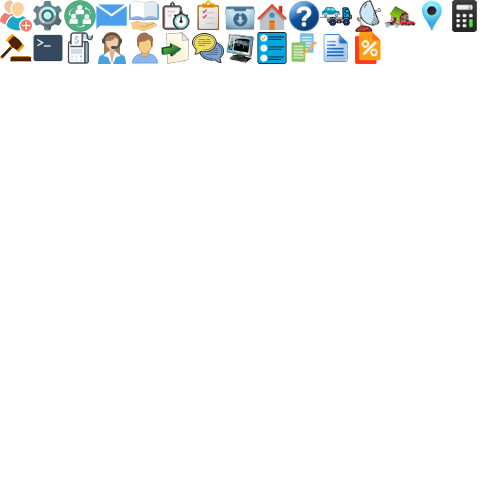
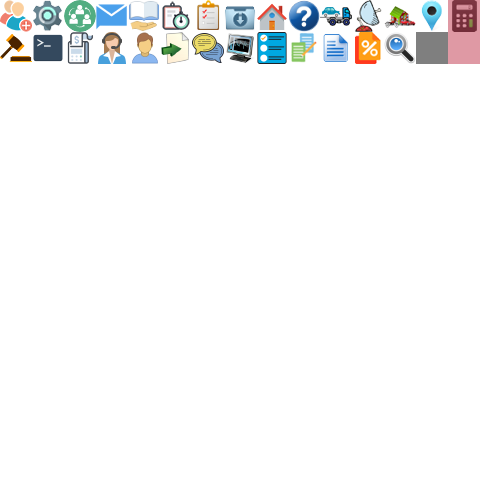
Dev

Changed region(s): [[0.75, 0.0, 0.96, 0.15]]

diff --git a/dev/components/Main.vue b/dev/components/Main.vue
@@ -5,6 +5,9 @@ import EBtn from '../../src/components/button/EBtn.js'
 import EWindowTable from '../../src/components/table/EWindowTable'
 import ETr from '../../src/components/table/ETr'
 import ETd from '../../src/components/table/ETd'
+import ETableFooter from '../../src/components/table/ETableFooter'
+import ETableFooterResult from '../../src/components/table/ETableFooterResult'
+import EBtnCircleStatus from '../../src/components/button/EBtnCircleStatus'
 
 export default {
   inject: {
@@ -44,7 +47,7 @@ export default {
     }
   },
   methods: {},
-  components: {ETd, ETr, EWindowTable, EBtn}
+  components: {EBtnCircleStatus, ETableFooterResult, ETableFooter, ETd, ETr, EWindowTable, EBtn}
 }
 </script>
 
@@ -72,19 +75,37 @@ export default {
 
     <br><br>
     <div class="m-b">Window Table:</div>
-    <div class="m-t" style="max-width: 900px; margin: auto">
-      <e-window-table
-        :columns="['Cod. Remoção', 'Data', 'Origem', 'Destino', 'Reboquista', 'Status', 'Opções']"
-      >
-        <e-tr v-for="data in wtableData" :key="data.id">
-          <e-td>{{data.codigo}}</e-td>
-          <e-td>{{data.data}}</e-td>
-          <e-td>{{data.origem}}</e-td>
-          <e-td>{{data.destino}}</e-td>
-          <e-td>{{data.reboquista}}</e-td>
-          <e-td>Ativo</e-td>
-        </e-tr>
-      </e-window-table>
+    <div class="wrapper bg-white flex justify-between" style="height: 200px">
+      <div class="m-t col-grow flex justify-between h-full" style="max-width: 900px; margin: auto">
+        <e-window-table class="col-grow h-full"
+                        :columns="['Cod. Remoção', 'Data', 'Origem', 'Destino', 'Reboquista', 'Status', 'Opções']"
+        >
+          <e-tr v-for="data in wtableData" :key="data.id">
+            <e-td>{{data.codigo}}</e-td>
+            <e-td>{{data.data}}</e-td>
+            <e-td>{{data.origem}}</e-td>
+            <e-td>{{data.destino}}</e-td>
+            <e-td>{{data.reboquista}}</e-td>
+            <e-td>
+              <div class="flex items-center">
+                <e-btn-circle-status class="bg-blue-10 m-r-xs" />
+                Ativo
+              </div>
+            </e-td>
+            <e-td><a><i class="erp-icon search min"></i> </a></e-td>
+          </e-tr>
+          <e-table-footer class="flex flex-center">
+            <e-table-footer-result class="m-r text-right">Total de remoções = 1</e-table-footer-result>
+            <e-table-footer-result class="m-r text-right">Total de remoções = 1</e-table-footer-result>
+            <e-table-footer-result class="text-right">Total de remoções = 1</e-table-footer-result>
+          </e-table-footer>
+        </e-window-table>
+      </div>
+    </div>
+
+    <br><br>
+    <div class="m-b">List Table:</div>
+    <div class="wrapper justify-between" style="height: 200px">
     </div>
   </div>
 </template>

diff --git a/src/components/table/EWindowTable.js b/src/components/table/EWindowTable.js
@@ -6,18 +6,19 @@ export default {
   components: {},
   computed: {
     computedClass () {
-      return {
-      }
+      return {}
     }
   },
   render (h) {
-    return h('table', {staticClass: 'erp-w-table', class: this.computedClass}, [
-      h('thead', [
-        this.columns.map((item) => {
-          return h('th', item)
-        })
-      ]),
-      h('tbody', this.$slots.default)
+    return h('div', {staticClass: 'erp-w-table', class: this.computedClass}, [
+      h('table', [
+        h('thead', [
+          this.columns.map((item) => {
+            return h('th', item)
+          })
+        ]),
+        h('tbody', this.$slots.default)
+      ])
     ])
   }
 }

diff --git a/src/components/table/ETableFooter.js b/src/components/table/ETableFooter.js
@@ -1,0 +1,28 @@
+export default {
+  name: 'ETableFooter',
+  props: {
+    height: {
+      type: Number,
+      default: 32
+    }
+  },
+  components: {},
+  mounted () {
+    this.$parent.$el.append(this.$el)
+  },
+  computed: {
+    computedClass () {
+      return {}
+    },
+    computedStyle () {
+      return {
+        height: `${this.height}px`
+      }
+    }
+  },
+  render (h) {
+    return h('div', {staticClass: 'e-w-table-footer', class: this.computedClass, style: this.computedStyle},
+      this.$slots.default
+    )
+  }
+}

diff --git a/src/components/button/EBtnCircleStatus.js b/src/components/button/EBtnCircleStatus.js
@@ -1,0 +1,18 @@
+export default {
+  name: 'EBtnCircleStatus',
+  props: {
+    status: String
+  },
+  components: {},
+  computed: {
+    computedClass () {
+      return {
+      }
+    }
+  },
+  render (h) {
+    let props = this.$props
+    props['noCaps'] = true
+    return h('span', {staticClass: 'erp-btn-circle-status ' + this.status, class: this.computedClass, props: props})
+  }
+}

diff --git a/src/components/table/ETableFooterResult.js b/src/components/table/ETableFooterResult.js
@@ -1,0 +1,18 @@
+export default {
+  name: 'ETableFooterResult',
+  props: {
+  },
+  components: {},
+  mounted () {
+  },
+  computed: {
+    computedClass () {
+      return {}
+    }
+  },
+  render (h) {
+    return h('div', {staticClass: 'e-w-table-footer-result', class: this.computedClass},
+      this.$slots.default
+    )
+  }
+}
